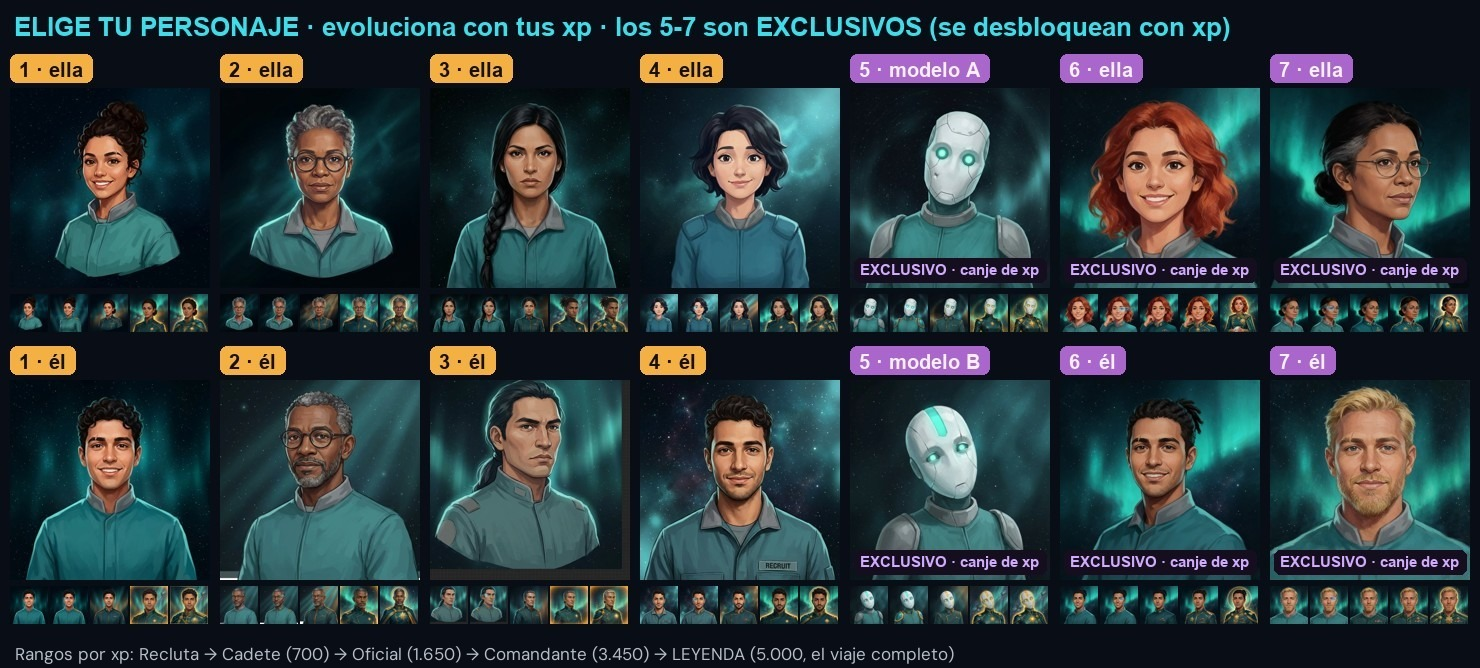
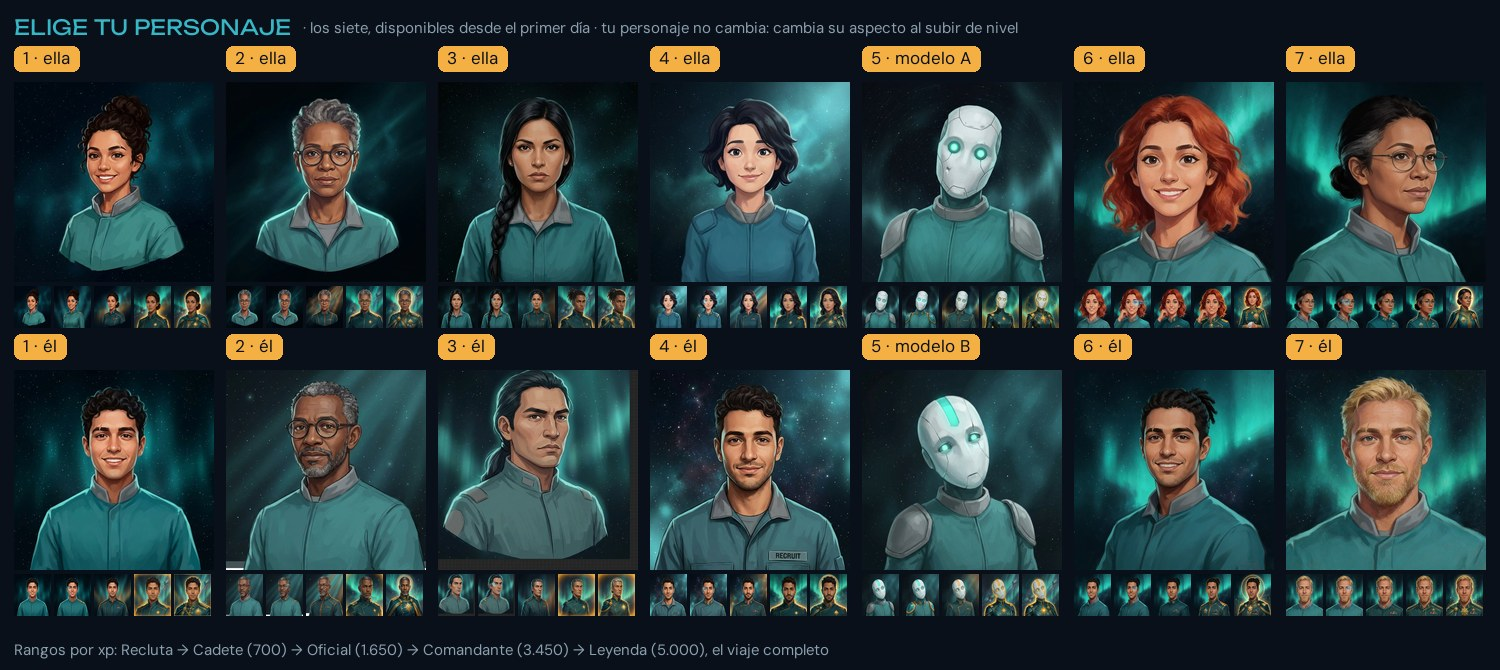
La Bitácora se rellena una vez y se edita; y la lámina deja de mentir
Visto haciendo el alistamiento entero como un alumno (27-ago).

🔴 UNA RESPUESTA, EDITABLE. Al enviar, Google ofrecía «Modificar tu respuesta»
Y «Enviar otra respuesta»: el segundo hace rellenar el formulario DESDE CERO.
Con un grupo entero eso son alias distintos, avatares distintos y reclutas
duplicados — y el sistema se identifica por correo.
El 26-ago se había quitado el límite porque Google avisa «solo puedes rellenar
esto una vez» y asusta. Se asume: editar sigue funcionando, y la descripción y
el mensaje final lo dicen con todas las letras. Un mensaje confuso se explica
en clase; treinta reclutas duplicados, no.
No se pierde histórico: la marca temporal del formulario no la usa nadie, cada
evento se guarda con su propia fecha. `reestructurarBitacora_` lo aplica también
a los grupos YA creados, que si no el arreglo solo valdría para los nuevos.

🔴 LA LÁMINA DECÍA QUE LOS PERSONAJES 5-7 SON EXCLUSIVOS. Desde que los siete
están disponibles al alistarse, la imagen —y el texto de ayuda— mentían en lo
primero que ve el alumnado. Ahora la lámina se GENERA (`_lamina_personajes.py`)
y sus umbrales salen de _site_data.py: si cambian los niveles, se rehace sola.

· El doble check del correo ahora comprueba algo: la pregunta escrita a mano se
  compara con la cuenta de Google y, si no coinciden, se avisa al alumno y queda
  traza en AJUSTES. El sistema sigue usando el de la cuenta, que no se falsea.
· Fuera el «(evoluciona)» de cada opción del desplegable. Seguro: parseAvatar_
[…]

diff --git a/pruebas/prueba35_bitacora_una_respuesta.js b/pruebas/prueba35_bitacora_una_respuesta.js
@@ -1,0 +1,130 @@
+'use strict';
+// 35 · LA BITÁCORA SE RELLENA UNA VEZ Y SE EDITA  (petición de Norberto, 27-ago)
+//
+// El problema, visto en vivo: al terminar de enviar, Google ofrecía «Modificar tu respuesta» Y
+// «Enviar otra respuesta». Con 80 personas, el segundo botón significa alias distintos, avatares
+// distintos y reclutas duplicados — porque quien lo pulsa rellena el formulario DESDE CERO.
+//
+// El 26-ago se había quitado el límite a propósito, porque Google enseña «Solo puedes rellenar este
+// formulario una vez» y asusta. Pero editar SIGUE funcionando (setAllowResponseEdits), y el riesgo
+// de duplicados es peor que un mensaje confuso. Norberto decidió: una respuesta, editable.
+//
+// Y la clave técnica: NO se pierde nada, porque la marca temporal del formulario no la usa nadie —
+// cada evento se guarda con su propia fecha (ver `registrarEventos_`).
+const E = require("./entorno.js");
+const { comprobar: c, igual, contiene } = E;
+console.log("\n▶ 35 · La Bitácora: una respuesta, editable");
+
+// ---------------------------------------------------------------- a) al crear el PER
+let G = E.nuevoMundo();
+E.crearPERDemo(G);
+const o = G.perObj_(G.perFila_("prueba-banco").v);
+const fb = G.formDelPER_(o, "B");
+
+igual(fb.unaRespuesta, true, "🔴 la Bitácora se limita a UNA respuesta por cuenta de Google");
+igual(fb.otraVez, false, "🔴 y NO se ofrece «enviar otra respuesta», que es el botón del desastre");
+
+// el ticket y el canje se quedan como estaban: ahí varios envíos son lo correcto
+igual(G.formDelPER_(o, "T").unaRespuesta, false, "el ticket de salida sigue admitiendo varios envíos (uno por clase)");
+igual(G.formDelPER_(o, "C").unaRespuesta, false, "y el canje también: se canjea muchas veces");
+
+// ---------------------------------------------------------------- b) el texto explica el flujo
+// Si Google va a decir «solo puedes rellenar esto una vez», el formulario tiene que desmentirlo
+// antes de que cunda el pánico.
+contiene(fb.descripcion, "edítala", "la descripción dice que se EDITA la misma respuesta");
+contiene(fb.confirmacion.toLowerCase(), "mismo enlace", "y el mensaje final recuerda por dónde se vuelve");
+
+// ---------------------------------------------------------------- c) en un formulario YA creado
+// Los grupos existentes no se recrean: se ponen al día desde el menú «Actualizar formularios».
+G = E.nuevoMundo();
+E.crearPERDemo(G);
+const o2 = G.perObj_(G.perFila_("prueba-banco").v);
+const viejo = G.formDelPER_(o2, "B");
+viejo.setLimitOneResponsePerUser(false).setShowLinkToRespondAgain(true);   // como estaban hasta hoy
+igual(viejo.unaRespuesta, false, "partimos de un formulario con el ajuste viejo");
+
+G.actualizarFormularios_();
+igual(G.formDelPER_(o2, "B").unaRespuesta, true, "🔴 «Actualizar formularios» lo corrige en los grupos ya creados");
+igual(G.formDelPER_(o2, "B").otraVez, false, "y también quita el enlace de volver a empezar");
+
+// ---------------------------------------------------------------- d) y sigue sin perderse nada
+// La razón por la que esto es seguro: el registro es append-only y la fecha la pone el script.
+G = E.nuevoMundo();
+E.crearPERDemo(G);
+E.enviarBitacora(G, "prueba-banco", { email: "uno@alumno.es", alias: "Uno", profe: "Mr Cuarter",
+  marcados: { "Tema 1 · Lo que he completado": G.RETOS_REGULAR[0][1] } });
+const fila = G._maestra.getSheetByName("B · prueba-banco").getLastRow();
+const antes = G.tablero_("prueba-banco", true).reclutas[0];
+igual(antes.n >= 2, true, "el primer envío registra su insignia");
+
+// vuelve y marca otra cosa EDITANDO la misma fila (que es justo lo que hará ahora el alumnado)
+E.enviarBitacora(G, "prueba-banco", { email: "uno@alumno.es",
+  marcados: { "Tema 2 · Lo que he completado": G.RETOS_REGULAR[2][1] } }, fila);
+const luego = G.tablero_("prueba-banco", true).reclutas[0];
+c(luego.n > antes.n, "editar la MISMA respuesta añade lo nuevo (" + antes.n + " → " + luego.n + ")");
+igual(luego.alias, "Uno", "y no le borra el alias que puso al alistarse");
+// lo que de verdad importa: cada registro tiene SU fila con SU fecha, puesta por el script
+const evs = G.hoja_(G.H.EV).getDataRange().getValues().slice(1).filter(v => v[2] === "uno@alumno.es");
+igual(evs.length, 3, "quedan tres eventos: el reclutamiento y los dos retos");
+c(evs.every(v => v[0] instanceof Date && !isNaN(v[0])), 
+  "🔴 y cada uno lleva su fecha propia: por eso guardar UNA sola respuesta no pierde el histórico");
+
+
+
+// ---------------------------------------------------------------- e) el doble check del correo
+// El formulario pide el correo a mano aunque Google ya sepa quién eres: es a propósito (en clase se
+// les dice que pongan el mismo). Pero hasta hoy NADIE comparaba los dos.
+G = E.nuevoMundo();
+E.crearPERDemo(G);
+const M = E.M;
+const shB = G._maestra.getSheetByName("B · prueba-banco");
+// la pregunta «Correo» viene de la plantilla, así que aquí se añade la columna a mano
+shB.getRange(1, shB.getLastColumn() + 1).setValue("Correo");
+M.Correo.limpiar();
+
+E.enviarBitacora(G, "prueba-banco", { email: "buena@alumno.es", alias: "Coincide", profe: "Mr Cuarter" });
+let fB = shB.getLastRow();
+shB.getRange(fB, shB.getRange(1,1,1,shB.getLastColumn()).getValues()[0].map(String).indexOf("Correo") + 1)
+   .setValue("buena@alumno.es");
+G.registrarEventos_(G.perObj_(G.perFila_("prueba-banco").v), shB, fB);
+igual(M.Correo.enviados.filter(x => /revisa el correo/i.test(x.asunto)).length, 0,
+  "si el correo escrito coincide con la cuenta, no se molesta a nadie");
+
+// y ahora uno que escribe otro distinto
+E.enviarBitacora(G, "prueba-banco", { email: "cuenta@alumno.es", alias: "NoCoincide", profe: "Mr Cuarter" });
+fB = shB.getLastRow();
+shB.getRange(fB, shB.getRange(1,1,1,shB.getLastColumn()).getValues()[0].map(String).indexOf("Correo") + 1)
+   .setValue("el.que.creia@otro.com");
+M.Correo.limpiar();
+G.registrarEventos_(G.perObj_(G.perFila_("prueba-banco").v), shB, fB);
+const aviso = M.Correo.enviados.filter(x => /revisa el correo/i.test(x.asunto));
+igual(aviso.length, 1, "🔴 si NO coincide, se le avisa a él, que es quien puede arreglarlo");
+contiene(aviso[0].para, "cuenta@alumno.es", "el aviso va a la cuenta de verdad, no a la inventada");
+contiene(aviso[0].cuerpo, "el.que.creia@otro.com", "y le dice exactamente qué escribió");
+contiene(aviso[0].cuerpo, "NO has perdido nada", "sin alarmarle: su registro está guardado");
+const traza = G.hoja_(G.H.AJ).getDataRange().getValues().slice(1).filter(v => v[4] === "correo");
+igual(traza.length, 1, "y queda traza en AJUSTES para el profesorado");
+
+// lo importante: el recluta se crea con el correo de la CUENTA, no con el que escribió
+const quien = G.tablero_("prueba-banco", true).reclutas.filter(x => x.alias === "NoCoincide")[0];
+igual(quien.email, "cuenta@alumno.es", "🔴 el sistema sigue usando el correo de Google: ese no se falsea");
+
+
+
+// ---------------------------------------------------------------- f) el desplegable, sin «(evoluciona)»
+// Sobra en la opción (lo explica el texto de ayuda) y alarga cada línea. Lo que NO puede pasar es
+// que deje de reconocerse el avatar de quien se alistó antes del cambio.
+G = E.nuevoMundo();
+const opc = G.opcIniciales_();
+igual(opc.length, 14, "siguen siendo los 7 personajes en dos versiones");
+igual(opc[0], "Personaje 1 · ella", "la opción ya no arrastra el «(evoluciona)»");
+c(opc.every(x => x.indexOf("(evoluciona)") < 0), "ninguna lo lleva");
+
+const nuevoAv = G.parseAvatar_("Personaje 3 · ella");
+const viejoAv = G.parseAvatar_("Personaje 3 · ella (evoluciona)");
+igual([nuevoAv.tipo, nuevoAv.n, nuevoAv.v], ["evo", 3, "f"], "el formato nuevo se lee bien");
+igual([viejoAv.tipo, viejoAv.n, viejoAv.v], ["evo", 3, "f"],
+  "🔴 y el VIEJO también: quien se alistó antes del cambio no pierde su personaje");
+igual(G.parseAvatar_("Personaje 5 · modelo B").v, "m", "y el modelo B del personaje 5 sigue siendo el masculino");
+
+E.resumen("La Bitácora: una respuesta, editable");

diff --git a/registro.html b/registro.html
@@ -98,7 +98,7 @@ Aunque un recluta no pase por la página del Tema 3, su insignia del Tema 3 sigu
 respuesta son sus datos de identidad, y esa página se ve siempre.</div>
 
 <h3 style="margin-top:1.6em">Avatares</h3>
-<div><p class="lead">Cada recluta elige su personaje en la Bitácora de mando: uno de los <b>siete</b>, en versión ella/él. Cada personaje tiene <b>cinco versiones de arte</b> — Recluta → Cadete → Oficial → Comandante → <b>Leyenda</b> — que se <b>desbloquean por nivel</b> (3, 5, 8 y 10; ver <a href="#economia">la tabla de niveles</a>). Al desbloquear una nueva se pone sola, pero desde ese momento son <b>skins</b>: el recluta elige cuál lleva desde su Nave, cuando quiera y gratis.</p><img src="assets/img/avatares/lamina_personajes.jpg?v=25b8196a98" alt="Personajes que evolucionan" style="border-radius:14px;border:1px solid var(--line);margin-bottom:12px">
+<div><p class="lead">Cada recluta elige su personaje en la Bitácora de mando: uno de los <b>siete</b>, en versión ella/él. Cada personaje tiene <b>cinco versiones de arte</b> — Recluta → Cadete → Oficial → Comandante → <b>Leyenda</b> — que se <b>desbloquean por nivel</b> (3, 5, 8 y 10; ver <a href="#economia">la tabla de niveles</a>). Al desbloquear una nueva se pone sola, pero desde ese momento son <b>skins</b>: el recluta elige cuál lleva desde su Nave, cuando quiera y gratis.</p><img src="assets/img/avatares/lamina_personajes.jpg?v=bab5a9d3ee" alt="Personajes que evolucionan" style="border-radius:14px;border:1px solid var(--line);margin-bottom:12px">
 <div class="official" style="display:block">🎭 <b>El vestuario de héroes.</b> Además de las skins, hay <b>héroes de la Rebelión</b>: figuras únicas que salen <b>al azar</b> con la recompensa del mismo nombre (60 ◈, desde la semana 2) y que se <b>acumulan</b>. Se ponen y se quitan gratis desde la Nave. Los que aún no tienes salen en <b>sombra</b>, y los <b>LEGENDARIOS</b> no se dejan ver hasta que caen. Poner tu propia imagen y comprar un personaje suelto <b>se han retirado</b>: el vestuario los sustituye.</div></div>
 </div>
 <h3 id="economia" style="margin-top:1.6em">Dos marcadores: xp y créditos ◈</h3>

diff --git a/pruebas/formapp.js b/pruebas/formapp.js
@@ -72,7 +72,7 @@ class Item {
 class Formulario {
   constructor(titulo, id) {
     this.titulo = titulo; this.id = id || ("form_" + (++nId)); this.items = [];
-    this.descripcion = ""; this.recogeCorreo = false; this.aceptando = true; this.publicado = false;
+    this.descripcion = ""; this.confirmacion = ""; this.recogeCorreo = false; this.aceptando = true; this.publicado = false;
     this.destino = null; this.hojaDestino = null;
     Formulario.registro[this.id] = this;
   }
@@ -89,7 +89,8 @@ class Formulario {
   setLimitOneResponsePerUser(b) { this.unaRespuesta = !!b; return this; }
   setAllowResponseEdits() { return this; }
   setShowLinkToRespondAgain(b) { this.otraVez = !!b; return this; }
-  setConfirmationMessage() { return this; }
+  setConfirmationMessage(m) { this.confirmacion = m; return this; }
+  getConfirmationMessage() { return this.confirmacion || ""; }
   setAcceptingResponses(b) { this.aceptando = !!b; return this; }
   isAcceptingResponses() { return this.aceptando; }
   setPublished(b) { this.publicado = !!b; return this; }

diff --git a/_lamina_personajes.py b/_lamina_personajes.py
@@ -1,0 +1,109 @@
+#!/usr/bin/env python3
+# -*- coding: utf-8 -*-
+"""Compone assets/img/avatares/lamina_personajes.jpg desde las piezas de evo/.
+
+Existe porque la lámina llevaba el texto QUEMADO en la imagen: cuando el 27-ago los siete
+personajes pasaron a estar disponibles desde el principio, la lámina siguió diciendo «los 5-7 son
+EXCLUSIVOS (se desbloquean con xp)» — y es lo primero que ve el alumnado al alistarse.
+
+Ahora se genera, y los umbrales de rango salen de _site_data.py: si mañana cambian los niveles,
+la lámina se rehace sola y no vuelve a mentir.
+
+    python3 _lamina_personajes.py
+"""
+import os, sys
+from PIL import Image, ImageDraw, ImageFont
+
+HERE = os.path.dirname(os.path.abspath(__file__))
+sys.path.insert(0, HERE)
+from _site_data import NIVELES, RANGOS   # noqa: E402
+
+EVO = os.path.join(HERE, "assets", "img", "avatares", "evo")
+FUENTES = os.path.join(HERE, "assets", "fonts")
+SALIDA = os.path.join(HERE, "assets", "img", "avatares", "lamina_personajes.jpg")
+
+PERSONAJES = 7
+FONDO = (10, 16, 26)
+TEAL = (55, 182, 198)
+AMBAR = (245, 176, 67)
+TINTA = (22, 32, 44)
+TEXTO = (223, 232, 238)
+APAG = (139, 160, 175)
+
+COL, GAP, MARGEN = 200, 12, 14
+RETRATO, TIRA = 200, 42
+CABECERA, ETIQ, PIE = 46, 30, 34
+
+
+def fuente(nombre, tam):
+    try:
+        return ImageFont.truetype(os.path.join(FUENTES, nombre), tam)
+    except Exception:
+        return ImageFont.load_default()
+
+
+def umbrales():
+    """[(rango, xp en que se entra)] leído de NIVELES: el arte cambia cuando cambia la columna 3."""
+    out, visto = [], None
+    for n, xp, r, _t in NIVELES:
+        if r != visto:
+            out.append((RANGOS[r - 1], xp))
+            visto = r
+    return out
+
+
+def etiqueta(d, x, y, texto, f, fondo, color=(10, 16, 26)):
+    izq, arr, der, aba = d.textbbox((0, 0), texto, font=f)
+    w, h = der - izq, aba - arr
+    d.rounded_rectangle((x, y, x + w + 18, y + h + 11), radius=7, fill=fondo)
+    d.text((x + 9 - izq, y + 5 - arr), texto, font=f, fill=color)
+    return w + 18
+
+
+def main():
+    ancho = MARGEN * 2 + PERSONAJES * COL + (PERSONAJES - 1) * GAP
+    fila = ETIQ + 6 + RETRATO + 4 + TIRA
+    alto = CABECERA + fila * 2 + GAP + PIE + MARGEN
+    im = Image.new("RGB", (ancho, alto), FONDO)
+    d = ImageDraw.Draw(im)
+
+    f_tit = fuente("Unbounded.ttf", 21)
+    f_etq = fuente("DMSans.ttf", 17)
+    f_pie = fuente("DMSans.ttf", 15)
+
+    # cabecera. 🔴 Ya no dice que 5-7 sean exclusivos: los siete están disponibles al alistarse.
+    x = MARGEN
+    d.text((x, 14), "ELIGE TU PERSONAJE", font=f_tit, fill=TEAL)
+    ancho_tit = d.textlength("ELIGE TU PERSONAJE", font=f_tit)
+    d.text((x + ancho_tit + 12, 18),
+           "· los siete, disponibles desde el primer día · tu personaje no cambia: cambia su aspecto al subir de nivel",
+           font=f_pie, fill=APAG)
+
+    for j, sexo in enumerate(("f", "m")):
+        arriba = CABECERA + j * (fila + GAP // 2)
+        for i in range(1, PERSONAJES + 1):
+            x = MARGEN + (i - 1) * (COL + GAP)
+            variante = ("modelo A" if sexo == "f" else "modelo B") if i == 5 else ("ella" if sexo == "f" else "él")
+            etiqueta(d, x, arriba, "%d · %s" % (i, variante), f_etq, AMBAR)
+            # retrato del primer rango
+            base = os.path.join(EVO, "p%d%s_r1.jpg" % (i, sexo))
+            im.paste(Image.open(base).resize((RETRATO, RETRATO), Image.LANCZOS), (x, arriba + ETIQ + 6))
+            # y la tira de los cinco rangos
+            ancho_min = (COL - 4 * 3) // 5
+            for r in range(1, 6):
+                mini = Image.open(os.path.join(EVO, "p%d%s_r%d.jpg" % (i, sexo, r)))
+                mini = mini.resize((ancho_min, TIRA), Image.LANCZOS)
+                im.paste(mini, (x + (r - 1) * (ancho_min + 3), arriba + ETIQ + 6 + RETRATO + 4))
+
+    pie = "Rangos por xp: " + " → ".join(
+        (r if xp == 0 else "%s (%s)" % (r, "{:,}".format(xp).replace(",", "."))) for r, xp in umbrales())
+    d.text((MARGEN, alto - PIE + 4), pie + ", el viaje completo", font=f_pie, fill=APAG)
+
+    im.save(SALIDA, "JPEG", quality=88, optimize=True)
+    print("lamina: %s · %dx%d · %.0f KB · %d personajes"
+          % (os.path.basename(SALIDA), im.width, im.height,
+             os.path.getsize(SALIDA) / 1024, PERSONAJES))
+
+
+if __name__ == "__main__":
+    main()
